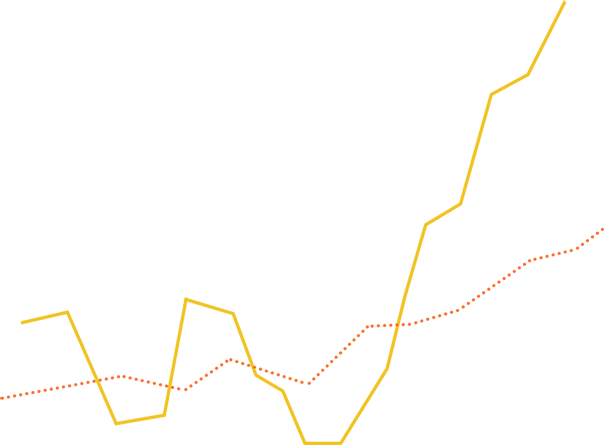
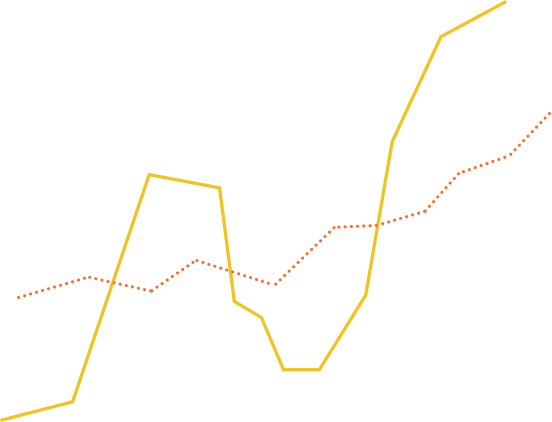
[!]

diff --git a/demo/webank_app_zdj/css/wel_screen/style.css b/demo/webank_app_zdj/css/wel_screen/style.css
@@ -83,38 +83,36 @@ html,body{ height:100%; width:100%; position: relative; overflow:hidden; backgro
 .wrap_show .penguin_wrap .penguin_area .penguin_eye{ -webkit-animation:a_penguin_eye 3.4s 1.1s linear infinite;}
 
 /*2*/
-.stock_wrap{ display:block; height:223px; width:302px; position:absolute; left:-30px; top:-128px; z-index:5;}
-.stock_wrap .stock_line{ display:block; height:223px; width:302px; background:url(../../images/wel_screen/page_1_stock_line.png) no-repeat 0 0; background-size:302px 223px; position:absolute; left:0px; top:0px;}
-.stock_wrap .stock_rect_wrap{ display:block; height:223px; width:302px; position:absolute; left:0px; top:0px;}
+.stock_wrap{ display:block; height:211px; width:276px; position:absolute; left:50%; top:50%; margin-left:-138px; margin-top:-250px; z-index:5;}
+.stock_wrap .stock_line{ display:block; height:211px; width:276px; background:url(../../images/wel_screen/page_1_stock_line.png) no-repeat 0 0; background-size:276px 211px; position:absolute; left:0px; top:0px;}
+.stock_wrap .stock_rect_wrap{ display:block; height:211px; width:276px; position:absolute; left:0px; top:0px;}
 .stock_wrap .stock_rect_wrap .stock_rect{ display:block; height:18px; width:14px; position:absolute; left:0px; bottom:0px;}
 .stock_wrap .stock_rect_wrap .stock_rect.stock_odd{ background:#468dc0;}
 .stock_wrap .stock_rect_wrap .stock_rect.stock_even{ background:#305795;}
 
-.stock_wrap .stock_rect_wrap .stock_rect_1{ height:18px; left:22px; bottom:-19px;}
-.stock_wrap .stock_rect_wrap .stock_rect_2{ height:50px; left:42px; bottom:-7px;}
-.stock_wrap .stock_rect_wrap .stock_rect_3{ height:50px; left:62px; bottom:10px;}
-.stock_wrap .stock_rect_wrap .stock_rect_4{ height:35px; left:82px; bottom:54px;}
-.stock_wrap .stock_rect_wrap .stock_rect_5{ height:75px; left:102px; bottom:41px;}
-.stock_wrap .stock_rect_wrap .stock_rect_6{ height:50px; left:122px; bottom:90px;}
-.stock_wrap .stock_rect_wrap .stock_rect_7{ height:75px; left:142px; bottom:32px;}
-.stock_wrap .stock_rect_wrap .stock_rect_8{ height:18px; left:162px; bottom:80px;}
-.stock_wrap .stock_rect_wrap .stock_rect_9{ height:75px; left:182px; bottom:35px;}
-.stock_wrap .stock_rect_wrap .stock_rect_10{ height:50px; left:202px; bottom:80px;}
-.stock_wrap .stock_rect_wrap .stock_rect_11{ height:35px; left:222px; bottom:115px;}
-.stock_wrap .stock_rect_wrap .stock_rect_12{ height:87px; left:242px; bottom:92px;}
-.stock_wrap .stock_rect_wrap .stock_rect_13{ height:35px; left:262px; bottom:149px;}
+.stock_wrap .stock_rect_wrap .stock_rect_1{ height:50px; left:22px; bottom:25px;}
+.stock_wrap .stock_rect_wrap .stock_rect_2{ height:35px; left:42px; bottom:60px;}
+.stock_wrap .stock_rect_wrap .stock_rect_3{ height:50px; left:62px; bottom:70px;}
+.stock_wrap .stock_rect_wrap .stock_rect_4{ height:50px; left:82px; bottom:97px;}
+.stock_wrap .stock_rect_wrap .stock_rect_5{ height:35px; left:102px; bottom:82px;}
+.stock_wrap .stock_rect_wrap .stock_rect_6{ height:35px; left:122px; bottom:68px;}
+.stock_wrap .stock_rect_wrap .stock_rect_7{ height:75px; left:142px; bottom:42px;}
+.stock_wrap .stock_rect_wrap .stock_rect_8{ height:50px; left:162px; bottom:87px;}
+.stock_wrap .stock_rect_wrap .stock_rect_9{ height:35px; left:182px; bottom:122px;}
+.stock_wrap .stock_rect_wrap .stock_rect_10{ height:90px; left:202px; bottom:100px;}
+.stock_wrap .stock_rect_wrap .stock_rect_11{ height:35px; left:222px; bottom:170px;}
 
 .coin_wrap{ display:block; height:223px; width:302px; position:absolute; left:0px; top:0px;}
-.coin_wrap .coin_1{ display:block; height:37px; width:37px; position:absolute; left:228px; bottom:4px;}
+.coin_wrap .coin_1{ display:block; height:37px; width:37px; position:absolute; left:234px; bottom:33px;}
 .coin_wrap .coin_1 .coin_hook{ display:block; height:37px; width:37px; position:absolute; left:0; top:0;}
 .coin_wrap .coin_1 i{ display:block; height:37px; width:37px; background:url(../../images/wel_screen/page_1_coin_1.png) no-repeat 0 0; background-size:contain; position:absolute; left:0; top:0;}
-.coin_wrap .coin_2{ display:block; height:25px; width:25px; position:absolute; left:146px; bottom:135px;}
+.coin_wrap .coin_2{ display:block; height:25px; width:25px; position:absolute; left:107px; bottom:145px;}
 .coin_wrap .coin_2 .coin_hook{ display:block; height:25px; width:25px; position:absolute; left:0; top:0;}
 .coin_wrap .coin_2 i{ display:block; height:25px; width:25px; background:url(../../images/wel_screen/page_1_coin_2.png) no-repeat 0 0; background-size:contain; position:absolute; left:0; top:0;}
 
-.coin_wrap .coin_3{ display:block; height:37px; width:37px; position:absolute; left:158px; bottom:142px;}
+.coin_wrap .coin_3{ display:block; height:37px; width:37px; position:absolute; left:123px; bottom:150px;}
 .coin_wrap .coin_3 i{ display:block; height:37px; width:37px; background:url(../../images/wel_screen/page_1_coin_1.png) no-repeat 0 0; background-size:contain; position:absolute; left:0; top:0; -webkit-transform:scale(0.9);}
-.coin_wrap .coin_4{ display:block; height:25px; width:25px; position:absolute; left:63px; bottom:-33px;}
+.coin_wrap .coin_4{ display:block; height:25px; width:25px; position:absolute; left:-4px; bottom:78px;}
 .coin_wrap .coin_4 i{ display:block; height:25px; width:25px; background:url(../../images/wel_screen/page_1_coin_2.png) no-repeat 0 0; background-size:contain; position:absolute; left:0; top:0; -webkit-transform:scale(0.8);}
 
 
@@ -124,19 +122,17 @@ html,body{ height:100%; width:100%; position: relative; overflow:hidden; backgro
 
 /*初次加载*/
 .wrap_show.first_load .stock_wrap .stock_line{ -webkit-animation:a_stock_line 0.5s 1.1s linear both;}
-.wrap_show.first_load .stock_wrap .stock_rect_wrap .stock_rect_1{ -webkit-animation:a_stock_rect_1 0.3s 1.6s ease both;}
-.wrap_show.first_load .stock_wrap .stock_rect_wrap .stock_rect_2{ -webkit-animation:a_stock_rect_3 0.3s 1.6s ease both;}
-.wrap_show.first_load .stock_wrap .stock_rect_wrap .stock_rect_3{ -webkit-animation:a_stock_rect_3 0.3s 1.6s ease both;}
-.wrap_show.first_load .stock_wrap .stock_rect_wrap .stock_rect_4{ -webkit-animation:a_stock_rect_2 0.3s 1.6s ease both;}
-.wrap_show.first_load .stock_wrap .stock_rect_wrap .stock_rect_5{ -webkit-animation:a_stock_rect_4 0.3s 1.6s ease both;}
-.wrap_show.first_load .stock_wrap .stock_rect_wrap .stock_rect_6{ -webkit-animation:a_stock_rect_3 0.3s 1.6s ease both;}
-.wrap_show.first_load .stock_wrap .stock_rect_wrap .stock_rect_7{ -webkit-animation:a_stock_rect_4 0.3s 1.6s ease both;}
-.wrap_show.first_load .stock_wrap .stock_rect_wrap .stock_rect_8{ -webkit-animation:a_stock_rect_1 0.3s 1.6s ease both;}
-.wrap_show.first_load .stock_wrap .stock_rect_wrap .stock_rect_9{ -webkit-animation:a_stock_rect_4 0.3s 1.6s ease both;}
-.wrap_show.first_load .stock_wrap .stock_rect_wrap .stock_rect_10{ -webkit-animation:a_stock_rect_3 0.3s 1.6s ease both;}
-.wrap_show.first_load .stock_wrap .stock_rect_wrap .stock_rect_11{ -webkit-animation:a_stock_rect_2 0.3s 1.6s ease both;}
-.wrap_show.first_load .stock_wrap .stock_rect_wrap .stock_rect_12{ -webkit-animation:a_stock_rect_5 0.3s 1.6s ease both;}
-.wrap_show.first_load .stock_wrap .stock_rect_wrap .stock_rect_13{ -webkit-animation:a_stock_rect_2 0.3s 1.6s ease both;}
+.wrap_show.first_load .stock_wrap .stock_rect_wrap .stock_rect_1{ -webkit-animation:a_stock_rect_2 0.3s 1.6s ease both;}
+.wrap_show.first_load .stock_wrap .stock_rect_wrap .stock_rect_2{ -webkit-animation:a_stock_rect_1 0.3s 1.6s ease both;}
+.wrap_show.first_load .stock_wrap .stock_rect_wrap .stock_rect_3{ -webkit-animation:a_stock_rect_2 0.3s 1.6s ease both;}
+.wrap_show.first_load .stock_wrap .stock_rect_wrap .stock_rect_4{ -webkit-animation:a_stock_rect_1 0.3s 1.6s ease both;}
+.wrap_show.first_load .stock_wrap .stock_rect_wrap .stock_rect_5{ -webkit-animation:a_stock_rect_1 0.3s 1.6s ease both;}
+.wrap_show.first_load .stock_wrap .stock_rect_wrap .stock_rect_6{ -webkit-animation:a_stock_rect_1 0.3s 1.6s ease both;}
+.wrap_show.first_load .stock_wrap .stock_rect_wrap .stock_rect_7{ -webkit-animation:a_stock_rect_3 0.3s 1.6s ease both;}
+.wrap_show.first_load .stock_wrap .stock_rect_wrap .stock_rect_8{ -webkit-animation:a_stock_rect_2 0.3s 1.6s ease both;}
+.wrap_show.first_load .stock_wrap .stock_rect_wrap .stock_rect_9{ -webkit-animation:a_stock_rect_1 0.3s 1.6s ease both;}
+.wrap_show.first_load .stock_wrap .stock_rect_wrap .stock_rect_10{ -webkit-animation:a_stock_rect_4 0.3s 1.6s ease both;}
+.wrap_show.first_load .stock_wrap .stock_rect_wrap .stock_rect_11{ -webkit-animation:a_stock_rect_1 0.3s 1.6s ease both;}
 
 .wrap_show.first_load .coin_wrap .coin_1{ -webkit-animation:a_coin 0.5s 1.9s ease both;}
 .wrap_show.first_load .coin_wrap .coin_2{ -webkit-animation:a_coin 0.5s 2.1s ease both;}
@@ -154,19 +150,17 @@ html,body{ height:100%; width:100%; position: relative; overflow:hidden; backgro
 
 /*小企鹅固定，时间缩短*/
 .wrap_show .stock_wrap .stock_line{ -webkit-animation:a_stock_line 0.5s 0.3s linear both;}
-.wrap_show .stock_wrap .stock_rect_wrap .stock_rect_1{ -webkit-animation:a_stock_rect_1 0.3s 0.8s ease both;}
-.wrap_show .stock_wrap .stock_rect_wrap .stock_rect_2{ -webkit-animation:a_stock_rect_3 0.3s 0.8s ease both;}
-.wrap_show .stock_wrap .stock_rect_wrap .stock_rect_3{ -webkit-animation:a_stock_rect_3 0.3s 0.8s ease both;}
-.wrap_show .stock_wrap .stock_rect_wrap .stock_rect_4{ -webkit-animation:a_stock_rect_2 0.3s 0.8s ease both;}
-.wrap_show .stock_wrap .stock_rect_wrap .stock_rect_5{ -webkit-animation:a_stock_rect_4 0.3s 0.8s ease both;}
-.wrap_show .stock_wrap .stock_rect_wrap .stock_rect_6{ -webkit-animation:a_stock_rect_3 0.3s 0.8s ease both;}
-.wrap_show .stock_wrap .stock_rect_wrap .stock_rect_7{ -webkit-animation:a_stock_rect_4 0.3s 0.8s ease both;}
-.wrap_show .stock_wrap .stock_rect_wrap .stock_rect_8{ -webkit-animation:a_stock_rect_1 0.3s 0.8s ease both;}
-.wrap_show .stock_wrap .stock_rect_wrap .stock_rect_9{ -webkit-animation:a_stock_rect_4 0.3s 0.8s ease both;}
-.wrap_show .stock_wrap .stock_rect_wrap .stock_rect_10{ -webkit-animation:a_stock_rect_3 0.3s 0.8s ease both;}
-.wrap_show .stock_wrap .stock_rect_wrap .stock_rect_11{ -webkit-animation:a_stock_rect_2 0.3s 0.8s ease both;}
-.wrap_show .stock_wrap .stock_rect_wrap .stock_rect_12{ -webkit-animation:a_stock_rect_5 0.3s 0.8s ease both;}
-.wrap_show .stock_wrap .stock_rect_wrap .stock_rect_13{ -webkit-animation:a_stock_rect_2 0.3s 0.8s ease both;}
+.wrap_show .stock_wrap .stock_rect_wrap .stock_rect_1{ -webkit-animation:a_stock_rect_2 0.3s 0.8s ease both;}
+.wrap_show .stock_wrap .stock_rect_wrap .stock_rect_2{ -webkit-animation:a_stock_rect_1 0.3s 0.8s ease both;}
+.wrap_show .stock_wrap .stock_rect_wrap .stock_rect_3{ -webkit-animation:a_stock_rect_2 0.3s 0.8s ease both;}
+.wrap_show .stock_wrap .stock_rect_wrap .stock_rect_4{ -webkit-animation:a_stock_rect_1 0.3s 0.8s ease both;}
+.wrap_show .stock_wrap .stock_rect_wrap .stock_rect_5{ -webkit-animation:a_stock_rect_1 0.3s 0.8s ease both;}
+.wrap_show .stock_wrap .stock_rect_wrap .stock_rect_6{ -webkit-animation:a_stock_rect_1 0.3s 0.8s ease both;}
+.wrap_show .stock_wrap .stock_rect_wrap .stock_rect_7{ -webkit-animation:a_stock_rect_3 0.3s 0.8s ease both;}
+.wrap_show .stock_wrap .stock_rect_wrap .stock_rect_8{ -webkit-animation:a_stock_rect_2 0.3s 0.8s ease both;}
+.wrap_show .stock_wrap .stock_rect_wrap .stock_rect_9{ -webkit-animation:a_stock_rect_1 0.3s 0.8s ease both;}
+.wrap_show .stock_wrap .stock_rect_wrap .stock_rect_10{ -webkit-animation:a_stock_rect_4 0.3s 0.8s ease both;}
+.wrap_show .stock_wrap .stock_rect_wrap .stock_rect_11{ -webkit-animation:a_stock_rect_1 0.3s 0.8s ease both;}
 
 .wrap_show .coin_wrap .coin_1{ -webkit-animation:a_coin 0.5s 1.1s ease both;}
 .wrap_show .coin_wrap .coin_2{ -webkit-animation:a_coin 0.5s 1.3s ease both;}
@@ -223,27 +217,22 @@ html,body{ height:100%; width:100%; position: relative; overflow:hidden; backgro
 
 @-webkit-keyframes a_stock_rect_1{
 	0%{ height:0px;}
-	100%{ height:18px;}
+	100%{ height:35px;}
 }
 
 @-webkit-keyframes a_stock_rect_2{
 	0%{ height:0px;}
-	100%{ height:35px;}
+	100%{ height:50px;}
 }
 
 @-webkit-keyframes a_stock_rect_3{
 	0%{ height:0px;}
-	100%{ height:50px;}
+	100%{ height:75px;}
 }
 
 @-webkit-keyframes a_stock_rect_4{
 	0%{ height:0px;}
-	100%{ height:75px;}
-}
-
-@-webkit-keyframes a_stock_rect_5{
-	0%{ height:0px;}
-	100%{ height:87px;}
+	100%{ height:90px;}
 }
 
 @-webkit-keyframes a_coin{
@@ -276,29 +265,25 @@ html,body{ height:100%; width:100%; position: relative; overflow:hidden; backgro
 }
 
 @-webkit-keyframes a_out_stock_rect_1{
-	0%{ height:18px;}
-	100%{ height:0px;}
-}
-
-@-webkit-keyframes a_out_stock_rect_2{
 	0%{ height:35px;}
 	100%{ height:0px;}
 }
 
-@-webkit-keyframes a_out_stock_rect_3{
+@-webkit-keyframes a_out_stock_rect_2{
 	0%{ height:50px;}
 	100%{ height:0px;}
 }
 
-@-webkit-keyframes a_out_stock_rect_4{
+@-webkit-keyframes a_out_stock_rect_3{
 	0%{ height:75px;}
 	100%{ height:0px;}
 }
 
-@-webkit-keyframes a_out_stock_rect_5{
-	0%{ height:87px;}
+@-webkit-keyframes a_out_stock_rect_4{
+	0%{ height:90px;}
 	100%{ height:0px;}
 }
+
 
 @-webkit-keyframes a_out_opacity{
 	0%{ opacity:1;}
@@ -311,19 +296,17 @@ html,body{ height:100%; width:100%; position: relative; overflow:hidden; backgro
 .wrap_hide .coin_wrap .coin_4{ -webkit-animation:a_out_coin 0.5s 0.3s ease both;}
 
 .wrap_hide .stock_wrap .stock_line{ left:auto; right:0px; background-position:right 0; -webkit-animation:a_out_stock_line 0.5s 0.6s linear both;}
-.wrap_hide .stock_wrap .stock_rect_wrap .stock_rect_1{ bottom:auto; top:224px; -webkit-animation:a_out_stock_rect_1 0.3s 0.3s ease both;}
-.wrap_hide .stock_wrap .stock_rect_wrap .stock_rect_2{ bottom:auto; top:180px; -webkit-animation:a_out_stock_rect_3 0.3s 0.3s ease both;}
-.wrap_hide .stock_wrap .stock_rect_wrap .stock_rect_3{ bottom:auto; top:163px; -webkit-animation:a_out_stock_rect_3 0.3s 0.3s ease both;}
-.wrap_hide .stock_wrap .stock_rect_wrap .stock_rect_4{ bottom:auto; top:134px; -webkit-animation:a_out_stock_rect_2 0.3s 0.3s ease both;}
-.wrap_hide .stock_wrap .stock_rect_wrap .stock_rect_5{ bottom:auto; top:107px; -webkit-animation:a_out_stock_rect_4 0.3s 0.3s ease both;}
-.wrap_hide .stock_wrap .stock_rect_wrap .stock_rect_6{ bottom:auto; top:83px; -webkit-animation:a_out_stock_rect_3 0.3s 0.3s ease both;}
-.wrap_hide .stock_wrap .stock_rect_wrap .stock_rect_7{ bottom:auto; top:116px; -webkit-animation:a_out_stock_rect_4 0.3s 0.3s ease both;}
-.wrap_hide .stock_wrap .stock_rect_wrap .stock_rect_8{ bottom:auto; top:125px; -webkit-animation:a_out_stock_rect_1 0.3s 0.3s ease both;}
-.wrap_hide .stock_wrap .stock_rect_wrap .stock_rect_9{ bottom:auto; top:113px; -webkit-animation:a_out_stock_rect_4 0.3s 0.3s ease both;}
-.wrap_hide .stock_wrap .stock_rect_wrap .stock_rect_10{ bottom:auto; top:93px; -webkit-animation:a_out_stock_rect_3 0.3s 0.3s ease both;}
-.wrap_hide .stock_wrap .stock_rect_wrap .stock_rect_11{ bottom:auto; top:73px; -webkit-animation:a_out_stock_rect_2 0.3s 0.3s ease both;}
-.wrap_hide .stock_wrap .stock_rect_wrap .stock_rect_12{ bottom:auto; top:44px; -webkit-animation:a_out_stock_rect_5 0.3s 0.3s ease both;}
-.wrap_hide .stock_wrap .stock_rect_wrap .stock_rect_13{ bottom:auto; top:39px; -webkit-animation:a_out_stock_rect_2 0.3s 0.3s ease both;}
+.wrap_hide .stock_wrap .stock_rect_wrap .stock_rect_1{ bottom:auto; top:136px; -webkit-animation:a_out_stock_rect_2 0.3s 0.3s ease both;}
+.wrap_hide .stock_wrap .stock_rect_wrap .stock_rect_2{ bottom:auto; top:116px; -webkit-animation:a_out_stock_rect_1 0.3s 0.3s ease both;}
+.wrap_hide .stock_wrap .stock_rect_wrap .stock_rect_3{ bottom:auto; top:91px; -webkit-animation:a_out_stock_rect_2 0.3s 0.3s ease both;}
+.wrap_hide .stock_wrap .stock_rect_wrap .stock_rect_4{ bottom:auto; top:79px; -webkit-animation:a_out_stock_rect_1 0.3s 0.3s ease both;}
+.wrap_hide .stock_wrap .stock_rect_wrap .stock_rect_5{ bottom:auto; top:94px; -webkit-animation:a_out_stock_rect_1 0.3s 0.3s ease both;}
+.wrap_hide .stock_wrap .stock_rect_wrap .stock_rect_6{ bottom:auto; top:108px; -webkit-animation:a_out_stock_rect_1 0.3s 0.3s ease both;}
+.wrap_hide .stock_wrap .stock_rect_wrap .stock_rect_7{ bottom:auto; top:94px; -webkit-animation:a_out_stock_rect_3 0.3s 0.3s ease both;}
+.wrap_hide .stock_wrap .stock_rect_wrap .stock_rect_8{ bottom:auto; top:74px; -webkit-animation:a_out_stock_rect_2 0.3s 0.3s ease both;}
+.wrap_hide .stock_wrap .stock_rect_wrap .stock_rect_9{ bottom:auto; top:54px; -webkit-animation:a_out_stock_rect_1 0.3s 0.3s ease both;}
+.wrap_hide .stock_wrap .stock_rect_wrap .stock_rect_10{ bottom:auto; top:21px; -webkit-animation:a_out_stock_rect_4 0.3s 0.3s ease both;}
+.wrap_hide .stock_wrap .stock_rect_wrap .stock_rect_11{ bottom:auto; top:6px; -webkit-animation:a_out_stock_rect_1 0.3s 0.3s ease both;}
 
 
 .wrap_hide .title_wrap .we{ -webkit-animation:a_out_opacity 0.3s 1s linear both;}

diff --git a/demo/webank_app_zdj/html/wel_screen/index.html b/demo/webank_app_zdj/html/wel_screen/index.html
@@ -55,9 +55,6 @@
                     <i class="stock_rect stock_rect_10 stock_even"></i>
                     
                 	<i class="stock_rect stock_rect_11 stock_odd"></i>
-                    <i class="stock_rect stock_rect_12 stock_even"></i>
-                    
-                	<i class="stock_rect stock_rect_13 stock_odd"></i>
                 </div>
                 <div class="coin_wrap">
                 	<span class="coin_1"><span class="coin_hook"><i></i></span></span>
